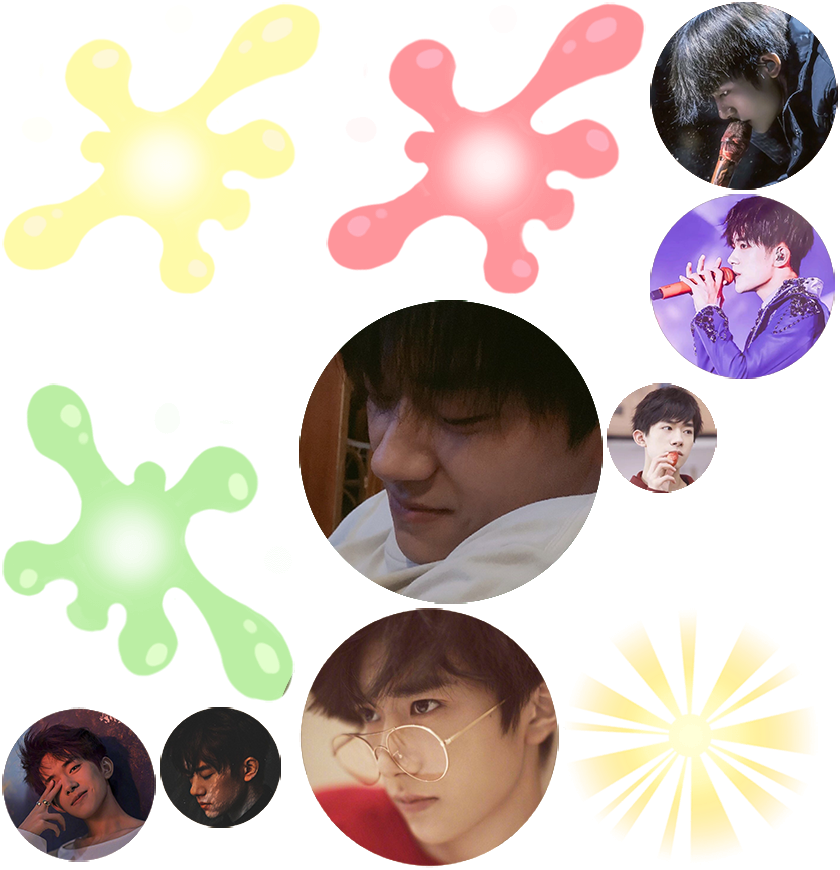
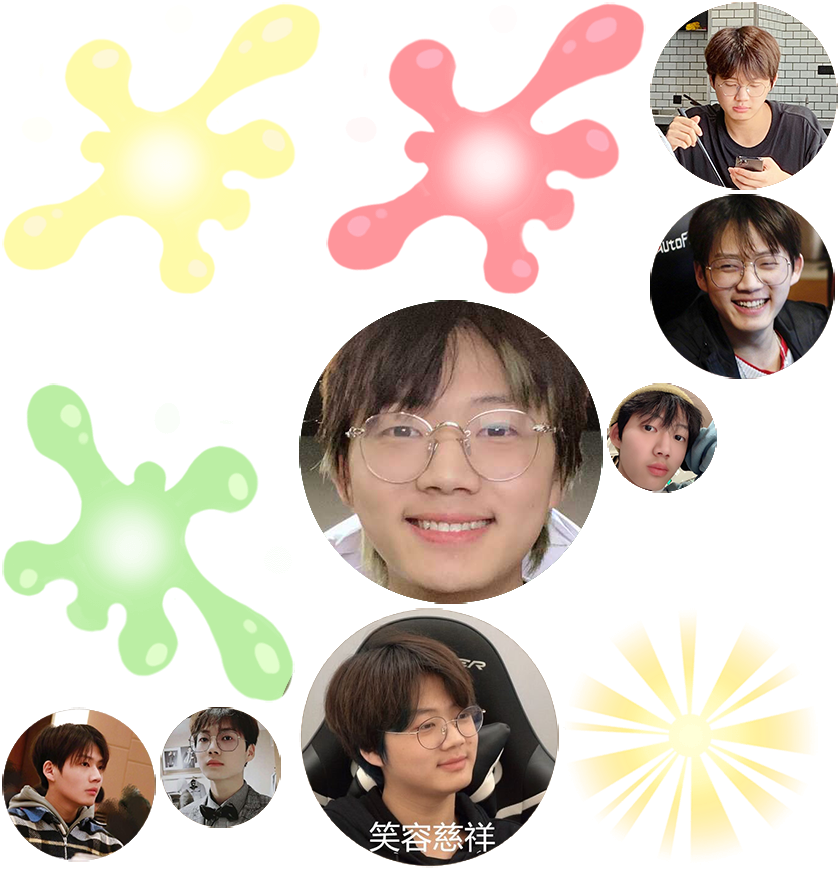
nitial commit

Changed region(s): [[0.0, 0.0, 1.0, 1.0]]

diff --git a/index.html b/index.html
@@ -4,7 +4,7 @@
 <head>
     <meta charset="utf-8">
 
-    <title>合成易烊千玺</title>
+    <title>合成小乐言</title>
 
     <!--http://www.html5rocks.com/en/mobile/mobifying/-->
     <meta name="viewport" content="width=device-width,user-scalable=no,initial-scale=1, minimum-scale=1,maximum-scale=1" />
@@ -109,7 +109,7 @@
             //        console.log("window.navigator.language",window.navigator.language);
 
             if (window.navigator.language == "zh-CN" || window.navigator.language == "zh-cn") {
-                document.title = "合成易烊千玺";
+                document.title = "合成小乐言";
             } 
 
 
